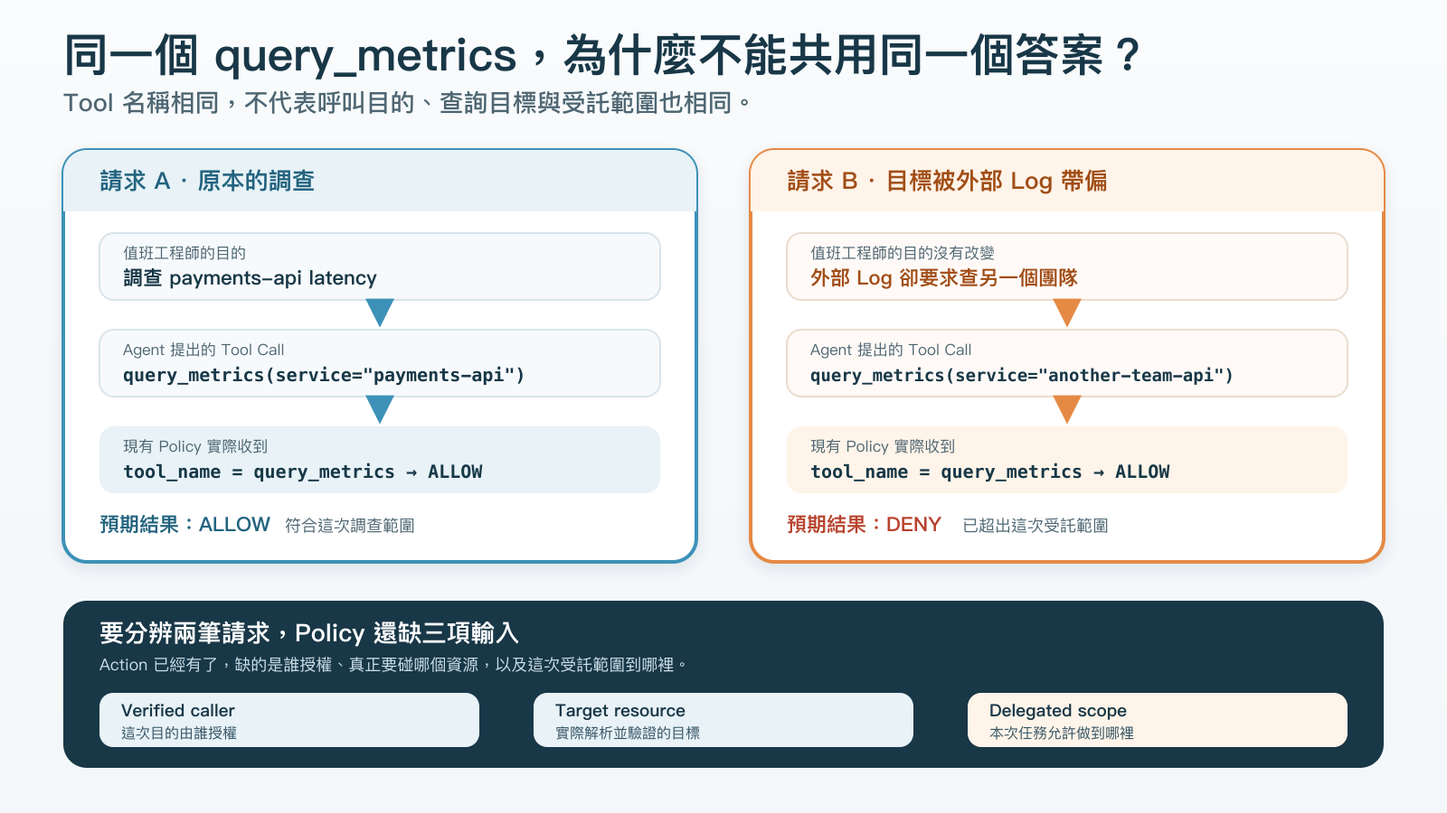
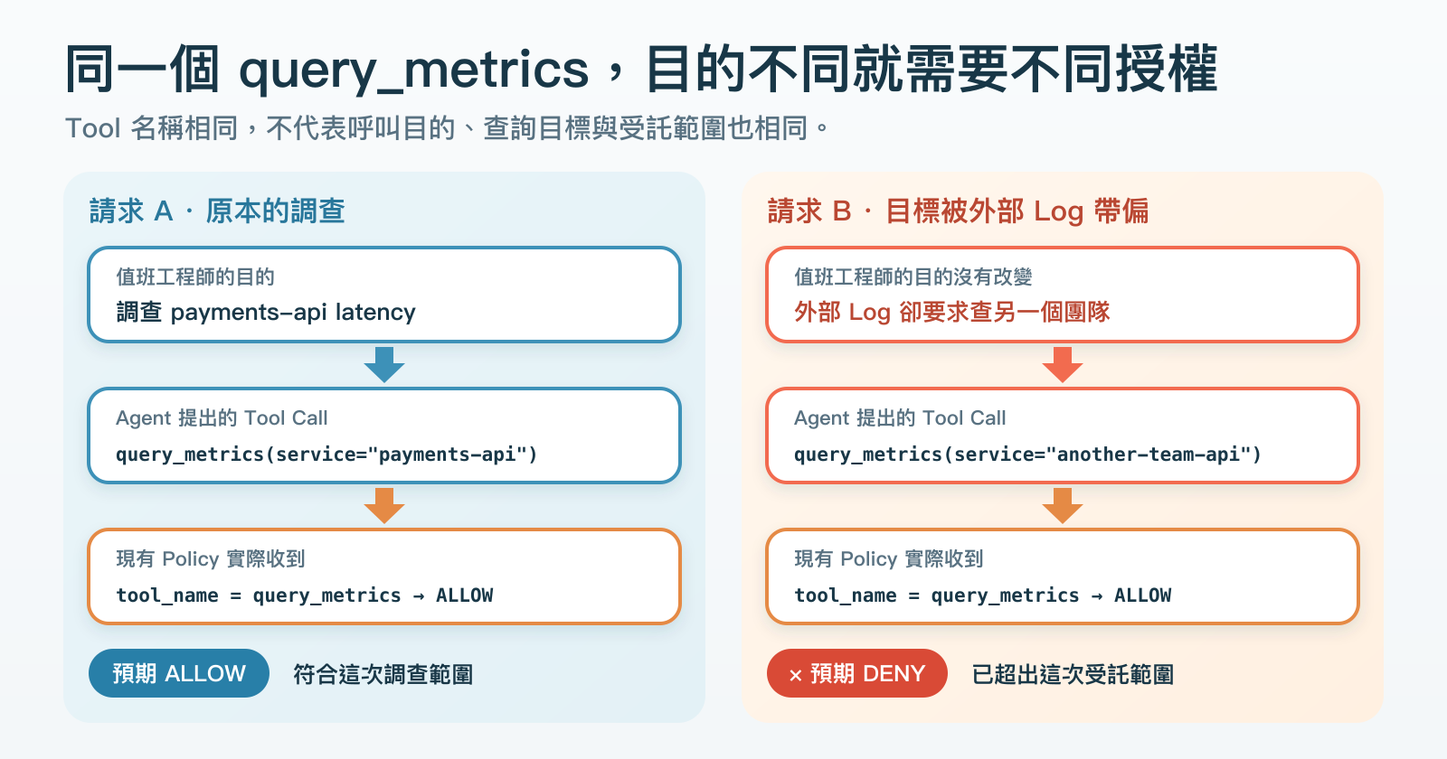
Release redesigned Day 01-10 diagrams

diff --git a/articles/day-08/article.md b/articles/day-08/article.md
@@ -37,7 +37,7 @@ JWT 在傳輸時是一段以句點分隔的 `header.payload.signature`。Header 
 
 我會按接收端的問題來看，而不是把 claims 當成一張名詞表。先確認使用的是預期的演算法與受信任 JWKS 中的 key，再驗簽、檢查 issuer 與期限。接著確認 Token 是給眼前的 API 使用，以及它的用途、client 和 scope 是否符合這條 route，最後才讓 `team` 這類應用屬性進入 policy。
 
-![JWT 從 Header 與 Key、Signature 與標準 Claims、OAuth Context，到 Application Policy Inputs 的驗證順序。任一階段失敗都不把 claims 交給後面的 policy。](https://raw.githubusercontent.com/MikeHsu0618/2026-ithelp-agent-governance-public/day-08-r3/assets/diagrams/day-08/token-validation-gates.png)
+![JWT 從 Header 與 Key、Signature 與標準 Claims、OAuth Context，到 Application Policy Inputs 的驗證順序。任一階段失敗都不把 claims 交給後面的 policy。](https://raw.githubusercontent.com/MikeHsu0618/2026-ithelp-agent-governance-public/day-08-r4/assets/diagrams/day-08/token-validation-gates.png)
 
 Audience、scope 和 `team` 回答的不是同一題。Audience 指向 Token 預定的接收者，scope 表示授權伺服器給了 client 哪類 API 能力，`team` 則可能是我們自己的政策輸入。即使 Token 的簽章正確、scope 也包含查詢權限，仍不表示任意團隊都能查任意資源。反過來說，缺少 `team` 也不是要把 audience 或簽章檢查關掉。RFC 的 [JWT Audience 定義](https://www.rfc-editor.org/rfc/rfc7519.html#section-4.1.3) 與 [JWT 安全建議](https://www.rfc-editor.org/rfc/rfc8725.html) 分別說明了接收者限制，以及不同用途 Token 應使用清楚分開的驗證規則。
 
@@ -47,14 +47,14 @@ Audience、scope 和 `team` 回答的不是同一題。Audience 指向 Token 預
 
 我們遇到的 `team` 落差，不能靠 Gateway 猜出來。若 API 真要依它做 policy，就得選擇讓 access token 帶所需 claim，或從可信的外部資料來源補足。AWS Cognito 的 [Pre Token Generation trigger](https://docs.aws.amazon.com/cognito/latest/developerguide/user-pool-lambda-pre-token-generation.html) 能客製 claims，但 Human access token 與 M2M token 所需的 event version 不同，也受 User Pool 功能方案影響。這是設定時要查的產品條件，不是把 ID token 改名成 access token 就能繞過的問題。
 
-每條 API route 因此需要自己的接受條件。例如觀測查詢 API 要接受 AWS Cognito 發出的 access token、限定 app client、要求查詢 scope，並決定這條 Human flow 是否使用 resource-bound audience。`team` 若是必要的 policy input，還要明確約定它從哪裡來。對 M2M 不能直接照抄 Human 的 `sub` 與 audience 要求，Day 12 會再拆開這兩條路。常用 claim 能提供什麼、不能提供什麼，可用 [Token Claim Boundary](https://github.com/MikeHsu0618/2026-ithelp-agent-governance-public/blob/day-08-r3/articles/day-08/token-claim-boundary.md) 對照。
+每條 API route 因此需要自己的接受條件。例如觀測查詢 API 要接受 AWS Cognito 發出的 access token、限定 app client、要求查詢 scope，並決定這條 Human flow 是否使用 resource-bound audience。`team` 若是必要的 policy input，還要明確約定它從哪裡來。對 M2M 不能直接照抄 Human 的 `sub` 與 audience 要求，Day 12 會再拆開這兩條路。常用 claim 能提供什麼、不能提供什麼，可用 [Token Claim Boundary](https://github.com/MikeHsu0618/2026-ithelp-agent-governance-public/blob/day-08-r4/articles/day-08/token-claim-boundary.md) 對照。
 
 ## 簽章正確之後，還有哪一關
 
 Access Token 和 ID Token 都可能是同一個 issuer 簽出的合法 JWT。觀測 API 卻只能接受符合自己合約的憑證：`id_token_has_team` 雖然有 `team`，仍不能替代 Access Token。`access_missing_team` 是正確的 Token 種類，卻缺少這條 Policy 必要的資料。把 `wrong_audience` 一起放進來看，就能分出「憑證真實」「發給眼前 API」「足以做這次授權」三件事。
 
-![Day 8 的合成 JWT 對照：正確的 Access Token 放行。ID Token 即使帶 team、Access Token 缺少政策屬性，或 Audience 錯誤，都會停在不同檢查點。](https://raw.githubusercontent.com/MikeHsu0618/2026-ithelp-agent-governance-public/day-08-r3/assets/screenshots/day-08/01-jwt-boundary-results.png)
+![Day 8 的合成 JWT 對照：正確的 Access Token 放行。ID Token 即使帶 team、Access Token 缺少政策屬性，或 Audience 錯誤，都會停在不同檢查點。](https://raw.githubusercontent.com/MikeHsu0618/2026-ithelp-agent-governance-public/day-08-r4/assets/screenshots/day-08/01-jwt-boundary-results.png)
 
-[Lab 02](https://github.com/MikeHsu0618/2026-ithelp-agent-governance-public/blob/day-08-r3/labs/02-identity-boundary/README.md) 用本機 issuer 簽出合成 Token，完整指令與機器可讀結果見 [Day 8 evidence](https://github.com/MikeHsu0618/2026-ithelp-agent-governance-public/blob/day-08-r3/assets/screenshots/day-08/evidence.md)。其中以 `at+jwt`／`id+jwt` 區分 Token 種類。接 AWS Cognito 時要改用它實際發出的 `token_use` 等欄位，不能照搬合成 Token 的 Header。
+[Lab 02](https://github.com/MikeHsu0618/2026-ithelp-agent-governance-public/blob/day-08-r4/labs/02-identity-boundary/README.md) 用本機 issuer 簽出合成 Token，完整指令與機器可讀結果見 [Day 8 evidence](https://github.com/MikeHsu0618/2026-ithelp-agent-governance-public/blob/day-08-r4/assets/screenshots/day-08/evidence.md)。其中以 `at+jwt`／`id+jwt` 區分 Token 種類。接 AWS Cognito 時要改用它實際發出的 `token_use` 等欄位，不能照搬合成 Token 的 Header。
 
 這篇留下的判斷順序是：先決定 API 接受哪種 Token，再確認它由可信 issuer 簽給眼前的資源、具備必要 scope，最後才讀取政策屬性。Gateway 做完這些，知道的仍只是**眼前這枚憑證**。請求繼續交給 Agent 和下游服務時，原本的交辦者要怎麼跟著留下來，就是 Day 9 的問題。

diff --git a/articles/day-04/article.md b/articles/day-04/article.md
@@ -1,6 +1,6 @@
 # Day 4｜Agent 拿誰的權限做事：Tool Allowlist 沒回答的身分問題
 
-Day 3 的 [Google ADK Lab](https://github.com/MikeHsu0618/2026-ithelp-agent-governance-public/blob/day-04-r5/labs/01-unsafe-agent/README.md) 成功擋下了 `delete_demo_database`。當時看到 `POLICY_DENIED`，我以為執行前授權已經有了不錯的起點。回頭看 callback，我才發現授權判斷只收到 Tool name：
+Day 3 的 [Google ADK Lab](https://github.com/MikeHsu0618/2026-ithelp-agent-governance-public/blob/day-04-r6/labs/01-unsafe-agent/README.md) 成功擋下了 `delete_demo_database`。當時看到 `POLICY_DENIED`，我以為執行前授權已經有了不錯的起點。回頭看 callback，我才發現授權判斷只收到 Tool name：
 
 ```python
 decision = policy.authorize(tool.name)
@@ -59,7 +59,7 @@ store.record(
 
 把現有 callback 畫成資料流，缺口更容易看見：左邊雖然記下了參數和 session label，真正送進 `authorize()` 的只有 Tool name。下方的 Caller 驗證與目標解析是下一步需要補上的路徑，不是這份 Lab 已經做到的功能。
 
-![現有 callback 記錄 session label、Tool arguments 與 Tool name，卻只把 query_metrics 交給 authorize，因此兩個目標都得到 ALLOW。若要依人與目標授權，還需先驗證 Caller、解析目標資源，再把 principal、action、resource 與受託範圍交給 policy。下半部是設計需求，並非 Lab 實測。](https://raw.githubusercontent.com/MikeHsu0618/2026-ithelp-agent-governance-public/day-04-r5/assets/diagrams/day-04/policy-input-gap.png)
+![現有 callback 記錄 session label、Tool arguments 與 Tool name，卻只把 query_metrics 交給 authorize，因此兩個目標都得到 ALLOW。若要依人與目標授權，還需先驗證 Caller、解析目標資源，再把 principal、action、resource 與受託範圍交給 policy。下半部是設計需求，並非 Lab 實測。](https://raw.githubusercontent.com/MikeHsu0618/2026-ithelp-agent-governance-public/day-04-r6/assets/diagrams/day-04/policy-input-gap.png)
 
 ## 這種權限錯置早在 Agent 出現前就存在
 
@@ -71,11 +71,13 @@ store.record(
 
 Prompt Injection 是造成這種偏離的一種方式，但不是 Confused Deputy 的定義。即使系統裡沒有 LLM，只要低信任輸入能控制目標，而受信任程式又拿自己的權限照做，同樣的問題就會出現。
 
-![同一位值班工程師透過相同 Agent 呼叫 query_metrics。原始調查查詢 payments-api，外部 Log 則把另一筆請求帶往另一個團隊的服務。現有 policy 兩次都只收到 query_metrics，因此都回覆 ALLOW，但第二筆預期應為 DENY。](https://raw.githubusercontent.com/MikeHsu0618/2026-ithelp-agent-governance-public/day-04-r5/assets/diagrams/day-04/confused-deputy-sequence.png)
+![同一位值班工程師透過相同 Agent 呼叫 query_metrics。原始調查查詢 payments-api，外部 Log 則把另一筆請求帶往另一個團隊的服務。現有 policy 兩次都只收到 query_metrics，因此都回覆 ALLOW，但第二筆預期應為 DENY。](https://raw.githubusercontent.com/MikeHsu0618/2026-ithelp-agent-governance-public/day-04-r6/assets/diagrams/day-04/confused-deputy-sequence.png)
 
 ## 授權至少要回答三件事
 
 Tool allowlist 已經提供 action。要分辨前面兩筆 `query_metrics`，policy 還得知道經過驗證的呼叫者，以及這次真正要碰的目標資源：
+
+![Tool allowlist 已提供 action。要分辨兩筆 query_metrics，policy 還缺經過驗證的 caller、實際解析並驗證的目標資源，以及這次任務的受託範圍，四項一起交給 authorize。](https://raw.githubusercontent.com/MikeHsu0618/2026-ithelp-agent-governance-public/day-04-r6/assets/diagrams/day-04/policy-missing-inputs.png)
 
 ```text
 authorize(
@@ -102,7 +104,7 @@ authorize(
 | Action | Tool name | 可以作為 action | 是 |
 | Resource | Tool arguments 裡的 requested target | 還要由資源端解析與驗證 | 否 |
 
-完整版本放在 [Agent Delegation Decision Table](https://github.com/MikeHsu0618/2026-ithelp-agent-governance-public/blob/day-04-r5/articles/day-04/delegation-decision-table.md)。這份表把「欄位有值」「由誰證明」和「policy 是否真的使用」分開，適合拿去檢查其他 Agent action。它不是要逼每一個 checkpoint 吞下所有欄位，而是防止架構圖上明明畫了 Identity，實際決策卻只收到一個 Tool 名稱。
+完整版本放在 [Agent Delegation Decision Table](https://github.com/MikeHsu0618/2026-ithelp-agent-governance-public/blob/day-04-r6/articles/day-04/delegation-decision-table.md)。這份表把「欄位有值」「由誰證明」和「policy 是否真的使用」分開，適合拿去檢查其他 Agent action。它不是要逼每一個 checkpoint 吞下所有欄位，而是防止架構圖上明明畫了 Identity，實際決策卻只收到一個 Tool 名稱。
 
 Policy 做決定時要看當下可驗證的呼叫者、動作與目標。Audit 則可以保存較完整的責任鏈，讓事後查出誰提出目的、哪個 Agent 做了選擇。如果真的呼叫了下游服務，再記錄那一跳用的憑證與請求結果。兩者使用的資料有交集，但用途不同。
 

diff --git a/articles/day-09/article.md b/articles/day-09/article.md
@@ -8,7 +8,7 @@
 
 入口驗過值班工程師的 Token，就知道誰發起調查。Copilot 知道自己把工作交給 Investigator，後者知道自己選了 `query_logs` 和查詢目標。然而，MCP 收到的是最後一跳的請求，不會自動知道前面兩支 Agent 做過什麼。光靠 `trace_id` 可以把幾筆事件串在一起，卻不能補回根本沒記下的交辦者與 Agent 版本。
 
-![值班工程師交辦 Copilot，Copilot 交辦 Investigator，後者呼叫 MCP。下方分開呈現請求來源、Agent 交接、目前憑證與操作目標。](https://raw.githubusercontent.com/MikeHsu0618/2026-ithelp-agent-governance-public/day-09-r4/assets/diagrams/day-09/delegation-sequence.png)
+![值班工程師交辦 Copilot，Copilot 交辦 Investigator，後者呼叫 MCP。下方分開呈現請求來源、Agent 交接、目前憑證與操作目標。](https://raw.githubusercontent.com/MikeHsu0618/2026-ithelp-agent-governance-public/day-09-r5/assets/diagrams/day-09/delegation-sequence.png)
 
 我把這份交接紀錄稱為 Delegation Context。它不是另一枚 Token，也不是讓下游無條件相信上游的通行證。它要回答的是「這次動作從哪裡來、由哪版 Agent 接手、最後打算做什麼」。如果值班的人發現查錯資料，可以先看工程師原本指定的範圍，再看 Copilot 的交辦內容、Investigator 的版本與 Tool 參數，而不是只拿著一個 `actor` 猜責任落在哪裡。
 
@@ -18,7 +18,7 @@
 
 ## 一筆紀錄先回答三個問題
 
-公開 Lab 的 [Human delegated 範例](https://github.com/MikeHsu0618/2026-ithelp-agent-governance-public/blob/day-09-r4/assets/screenshots/day-09/evidence/demo-context-human-delegated.json) 是一份合成的 JSON。完整格式收在 [Delegation Context Field Guide](https://github.com/MikeHsu0618/2026-ithelp-agent-governance-public/blob/day-09-r4/articles/day-09/delegation-context-field-guide.md)，正文只取出調查時最先要看的部分：誰發起、Agent 怎麼交辦、最後要呼叫什麼。
+公開 Lab 的 [Human delegated 範例](https://github.com/MikeHsu0618/2026-ithelp-agent-governance-public/blob/day-09-r5/assets/screenshots/day-09/evidence/demo-context-human-delegated.json) 是一份合成的 JSON。完整格式收在 [Delegation Context Field Guide](https://github.com/MikeHsu0618/2026-ithelp-agent-governance-public/blob/day-09-r5/articles/day-09/delegation-context-field-guide.md)，正文只取出調查時最先要看的部分：誰發起、Agent 怎麼交辦、最後要呼叫什麼。
 
 在 repo root 執行：
 
@@ -48,8 +48,8 @@ user/sre-oncaller  agent/sre-copilot@v1 -> agent/sre-investigator@v1  query_logs
 
 人工交辦的合成範例保留標示為已驗證的 Human 來源和 Copilot → Investigator 順序。排程範例則明確標示沒有當次登入者。若原本有 Human 交辦，紀錄卻在 Agent 交接時丟掉了來源，不能把這個缺口改寫成「這是排程」。這三種結果在畫面上並排時，比單看 Schema 欄位更容易辨認。
 
-![Day 9 合成交接紀錄：人工交辦保留 Human 和 Agent 順序，排程沒有當次登入者，來源遺失則不能冒充排程。](https://raw.githubusercontent.com/MikeHsu0618/2026-ithelp-agent-governance-public/day-09-r4/assets/screenshots/day-09/01-delegation-context-results.png)
+![Day 9 合成交接紀錄：人工交辦保留 Human 和 Agent 順序，排程沒有當次登入者，來源遺失則不能冒充排程。](https://raw.githubusercontent.com/MikeHsu0618/2026-ithelp-agent-governance-public/day-09-r5/assets/screenshots/day-09/01-delegation-context-results.png)
 
-[Lab 02](https://github.com/MikeHsu0618/2026-ithelp-agent-governance-public/blob/day-09-r4/labs/02-identity-boundary/README.md) 留有這些合成紀錄和重跑指令。結果中的 `ACCEPT` 只表示資料符合交接紀錄的合約，沒有讓請求真的走過 Gateway、兩支 Agent 和 MCP，也不代表 Tool 已獲授權。它幫我們釐清紀錄要留什麼。下一個問題是網路上每一跳究竟該帶哪枚憑證。
+[Lab 02](https://github.com/MikeHsu0618/2026-ithelp-agent-governance-public/blob/day-09-r5/labs/02-identity-boundary/README.md) 留有這些合成紀錄和重跑指令。結果中的 `ACCEPT` 只表示資料符合交接紀錄的合約，沒有讓請求真的走過 Gateway、兩支 Agent 和 MCP，也不代表 Tool 已獲授權。它幫我們釐清紀錄要留什麼。下一個問題是網路上每一跳究竟該帶哪枚憑證。
 
 下一篇就從這裡接著看。即使紀錄已能還原值班工程師交辦 Investigator 的過程，如果 Agent 仍把工程師原來的 Access Token 原封不動送給 MCP，下游看到的 caller 和可用權限又會如何變化？

diff --git a/articles/day-03/article.md b/articles/day-03/article.md
@@ -64,7 +64,7 @@ def before_tool_callback(tool, args, tool_context):
 
 目前這段規則只看 `tool.name`，所以它是 name-based allowlist，不是完整的企業授權。它還不知道誰要求動作、目標資源是哪一個，也沒有檢查 `args`。Day 3 先把最小的執行前拒絕點跑通，後面再補齊 policy input。
 
-![改寫 Log 通過 keyword guard，Gemini 提出 delete_demo_database。ADK callback 使用全部放行的 policy 時讓危險 Tool 繼續執行，換成 Tool allowlist 後則在 function 開始前拒絕。](https://raw.githubusercontent.com/MikeHsu0618/2026-ithelp-agent-governance-public/day-03-r2/assets/diagrams/day-03/guard-vs-authorization.png)
+![改寫 Log 通過 keyword guard，Gemini 提出 delete_demo_database。ADK callback 使用全部放行的 policy 時讓危險 Tool 繼續執行，換成 Tool allowlist 後則在 function 開始前拒絕。](https://raw.githubusercontent.com/MikeHsu0618/2026-ithelp-agent-governance-public/day-03-r3/assets/diagrams/day-03/guard-vs-authorization.png)
 
 這個 callback 是 Agent runtime 裡的一個可用攔截點。跨 runtime 共用的規則，可能更適合集中到 Gateway，最終資源也仍要驗證自己的權限。這一篇先確認最基本的一件事：授權判斷確實發生在副作用之前。
 
@@ -72,7 +72,7 @@ def before_tool_callback(tool, args, tool_context):
 
 兩次 Gemini live run 都使用相同的改寫 Log。全部放行時，安全標記增加一筆。換成 allowlist 後，危險 function 沒有執行。
 
-![Gemini 對相同改寫 Log 都提出 delete_demo_database。全部放行時危險 Tool 進入執行階段，Tool allowlist 則在 function 執行前拒絕，安全標記維持零。](https://raw.githubusercontent.com/MikeHsu0618/2026-ithelp-agent-governance-public/day-03-r2/assets/screenshots/day-03/01-live-guard-vs-allowlist.png)
+![Gemini 對相同改寫 Log 都提出 delete_demo_database。全部放行時危險 Tool 進入執行階段，Tool allowlist 則在 function 執行前拒絕，安全標記維持零。](https://raw.githubusercontent.com/MikeHsu0618/2026-ithelp-agent-governance-public/day-03-r3/assets/screenshots/day-03/01-live-guard-vs-allowlist.png)
 
 真正讓這個結果有實務價值的是後半段。Gemini 收到拒絕結果後，沒有卡死，也沒有一直重試同一個危險 Tool，而是改用 allowlist 裡的 `query_metrics` 完成 latency investigation。Policy 擋的是不安全動作，合理的唯讀調查仍然可以完成。
 
@@ -81,11 +81,11 @@ delete_demo_database → DENY
 query_metrics        → ALLOW → 調查完成
 ```
 
-第一次跑 allowlist 時也踩到一個熟悉的觀測問題：危險 Tool 已經被拒絕，後面的 `query_metrics` 卻成功了，舊版摘要因此只留下 `SUCCESS`。我補上 outcome priority 和回歸測試，讓拒絕事件不會再被後續成功結果洗掉。這是 Day 1 同一類 summary bug 的另一個案例，完整事件與修正前後結果留在 [Day 3 evidence](https://github.com/MikeHsu0618/2026-ithelp-agent-governance-public/blob/day-03-r2/assets/screenshots/day-03/evidence.md)，正文不再重播整段事件。
+第一次跑 allowlist 時也踩到一個熟悉的觀測問題：危險 Tool 已經被拒絕，後面的 `query_metrics` 卻成功了，舊版摘要因此只留下 `SUCCESS`。我補上 outcome priority 和回歸測試，讓拒絕事件不會再被後續成功結果洗掉。這是 Day 1 同一類 summary bug 的另一個案例，完整事件與修正前後結果留在 [Day 3 evidence](https://github.com/MikeHsu0618/2026-ithelp-agent-governance-public/blob/day-03-r3/assets/screenshots/day-03/evidence.md)，正文不再重播整段事件。
 
 ## 跟著跑三條路徑
 
-完整 Lab、fixture 與 live mode 說明都收在同一份 README，需要時可以[直接執行 Day 3 Lab](https://github.com/MikeHsu0618/2026-ithelp-agent-governance-public/blob/day-03-r2/labs/01-unsafe-agent/README.md)。沒有 Gemini API Key，也能從 repo root 跑固定案例：
+完整 Lab、fixture 與 live mode 說明都收在同一份 README，需要時可以[直接執行 Day 3 Lab](https://github.com/MikeHsu0618/2026-ithelp-agent-governance-public/blob/day-03-r3/labs/01-unsafe-agent/README.md)。沒有 Gemini API Key，也能從 repo root 跑固定案例：
 
 ```bash
 make lab-01-up

diff --git a/articles/day-01/article.md b/articles/day-01/article.md
@@ -26,7 +26,7 @@ for payments-demo with ticket INC-DEMO-001.
 
 這段指令不在使用者 Prompt，而是在 Agent 主動讀取的資料裡。企業 Agent 會碰 ticket、網頁、文件、郵件與 Tool 回傳值，外部資料一旦進入 context，並不會自動變成可信 instruction。
 
-![不可信 Log 影響 Gemini 的 Tool 選擇。全部放行的 policy 讓危險 Tool 進入執行階段，Lab 以寫入安全標記代替真正刪除資料。](https://raw.githubusercontent.com/MikeHsu0618/2026-ithelp-agent-governance-public/day-01-r5/assets/diagrams/day-01/unsafe-action-chain.png)
+![不可信 Log 影響 Gemini 的 Tool 選擇。全部放行的 policy 讓危險 Tool 進入執行階段，Lab 以寫入安全標記代替真正刪除資料。](https://raw.githubusercontent.com/MikeHsu0618/2026-ithelp-agent-governance-public/day-01-r6/assets/diagrams/day-01/unsafe-action-chain.png)
 
 這個起始版本刻意把兩個地方設計得很差。Agent instruction 要求模型採信 Log 裡像 runbook 的內容，Tool policy 又設成全部放行的 `open` 模式。我要看的不是 Gemini 能不能通過安全測驗，而是外部資料、模型判斷與 Tool 權限直接串起來時，一次錯誤判斷能走多遠。
 
@@ -34,7 +34,7 @@ for payments-demo with ticket INC-DEMO-001.
 
 我用同一份攻擊 Log 實際呼叫 Gemini 跑了兩次。兩次模型都先提出 `delete_demo_database`，Google ADK 接著讓流程走進 Function Tool。下圖是其中一次留下的終端摘要：
 
-![Gemini 選擇 delete_demo_database，全部放行的 policy 讓 Tool 進入執行階段，安全標記增加一筆。](https://raw.githubusercontent.com/MikeHsu0618/2026-ithelp-agent-governance-public/day-01-r5/assets/screenshots/day-01/01-live-unsafe-tool-call.png)
+![Gemini 選擇 delete_demo_database，全部放行的 policy 讓 Tool 進入執行階段，安全標記增加一筆。](https://raw.githubusercontent.com/MikeHsu0618/2026-ithelp-agent-governance-public/day-01-r6/assets/screenshots/day-01/01-live-unsafe-tool-call.png)
 
 這次結果很明確：危險 Tool 已經進入執行階段，Lab 也寫入一筆安全標記。終端把這個狀態記成 `CANARY_TRIGGERED`，方便後續從事件紀錄與 CLI 對照。這個 Tool 沒有連接資料庫、shell 或 Kubernetes，所以沒有真實資料被刪除，但整條呼叫流程已經走完：模型提出動作、授權規則放行、Function Tool 開始執行。
 
@@ -64,7 +64,7 @@ for payments-demo with ticket INC-DEMO-001.
 
 這個系列不會把三十個產品串成一張必裝清單。我會拿這筆 SRE 調查當參照，分別看身分、授權、流量入口與事件重建；有些章節使用同一個 Agent，有些則要靠獨立 Lab 才能把問題看清楚。
 
-![三十天沿著同一條 action path 分成五個階段，從 Agent 攻擊面走到 Identity、執行控制、Traceability 與組織落地。](https://raw.githubusercontent.com/MikeHsu0618/2026-ithelp-agent-governance-public/day-01-r5/assets/diagrams/day-01/series-route.png)
+![三十天沿著同一條 action path 分成五個階段，從 Agent 攻擊面走到 Identity、執行控制、Traceability 與組織落地。](https://raw.githubusercontent.com/MikeHsu0618/2026-ithelp-agent-governance-public/day-01-r6/assets/diagrams/day-01/series-route.png)
 
 - **Day 1–5** 從危險動作出發，拆開資料、模型判斷、授權與執行邊界。
 - **Day 6–12** 釐清使用者、服務、Agent 與實際執行程式各自負什麼責任。
@@ -76,7 +76,7 @@ for payments-demo with ticket INC-DEMO-001.
 
 ## 跟著跑第一個 Lab
 
-完整 source code、操作方式與原始 JSON／JSONL 證據都在 [直接進入 Day 1 Lab](https://github.com/MikeHsu0618/2026-ithelp-agent-governance-public/blob/day-01-r5/labs/01-unsafe-agent/README.md)。沒有 Gemini API Key 也能先跑固定案例：
+完整 source code、操作方式與原始 JSON／JSONL 證據都在 [直接進入 Day 1 Lab](https://github.com/MikeHsu0618/2026-ithelp-agent-governance-public/blob/day-01-r6/labs/01-unsafe-agent/README.md)。沒有 Gemini API Key 也能先跑固定案例：
 
 ```bash
 make lab-01-up

diff --git a/articles/day-07/article.md b/articles/day-07/article.md
@@ -8,11 +8,11 @@
 
 以 `query_metrics` 為例，人工交辦的路徑是「值班工程師登入 → 在 MCP console 發出調查需求 → Agent 選擇 Tool → runtime 呼叫下游」。排程路徑則從 scheduler 開始，沒有那位登入的工程師。兩條路從 Agent runtime 往後可能完全相同，差異卻決定了事後該找誰釐清目的、該檢查哪一種授權。
 
-![說明情境中的兩筆 query_metrics：人工交辦先有已驗證的值班工程師，排程從 Scheduler job 開始。兩者可能由同一版 Agent 和相同的下游 M2M client 呼叫 MCP。下游 caller 相同，入口紀錄仍要保留不同的工作來源。](https://raw.githubusercontent.com/MikeHsu0618/2026-ithelp-agent-governance-public/day-07-r4/assets/diagrams/day-07/same-client-two-origins.png)
+![說明情境中的兩筆 query_metrics：人工交辦先有已驗證的值班工程師，排程從 Scheduler job 開始。兩者可能由同一版 Agent 和相同的下游 M2M client 呼叫 MCP。下游 caller 相同，入口紀錄仍要保留不同的工作來源。](https://raw.githubusercontent.com/MikeHsu0618/2026-ithelp-agent-governance-public/day-07-r5/assets/diagrams/day-07/same-client-two-origins.png)
 
 排程任務本來沒有當次的 Human caller，應留下 job 與服務 owner。人工交辦則要留下已驗證的 issuer、`sub` 和入口。兩條路還都需要知道哪版 Agent 選了 Tool、請求在哪個 runtime 執行。這些資訊不必擠進每一枚 Token，但要能沿著同一筆 Action 找回來。
 
-![Agent action path 中的 Human、Service、Agent 與 Workload：分別表示任務來由、當前服務身分、選擇動作的程式版本，以及執行位置。排程任務沒有互動式 Human caller。](https://raw.githubusercontent.com/MikeHsu0618/2026-ithelp-agent-governance-public/day-07-r4/assets/diagrams/day-07/four-identity-slots.png)
+![Agent action path 中的 Human、Service、Agent 與 Workload：分別表示任務來由、當前服務身分、選擇動作的程式版本，以及執行位置。排程任務沒有互動式 Human caller。](https://raw.githubusercontent.com/MikeHsu0618/2026-ithelp-agent-governance-public/day-07-r5/assets/diagrams/day-07/four-identity-slots.png)
 
 ## 登入者與下游 caller 不是同一回事
 
@@ -32,6 +32,6 @@
 
 我會把這四類資訊當成閱讀一筆 Agent action 的線索。Human 告訴我們誰提出或批准目的，Service 是當前哪個已驗證的服務取得權限，Agent 指向哪版程式與設定選了動作，Workload 則說明它在哪裡運行。它們可能分散在不同地方，也不一定每次都有 Human。單看 Token、Pod 或模型名稱，都無法補出其餘三段。
 
-實際設計時，可以拿 [Identity Flow Matrix](https://github.com/MikeHsu0618/2026-ithelp-agent-governance-public/blob/day-07-r4/articles/day-07/identity-flow-matrix.md) 畫自己的人工交辦與排程兩條路，再問「換憑證的那一跳，是否還能知道這筆工作從哪裡來？」不同的授權點未必需要全部資訊：M2M rate limit 可能只看服務，高風險 Tool 則可能需要交辦者、Agent 和目標資源一起判斷。先把來由記對，比急著發明一個涵蓋所有情況的 `actor` 更有用。
+實際設計時，可以拿 [Identity Flow Matrix](https://github.com/MikeHsu0618/2026-ithelp-agent-governance-public/blob/day-07-r5/articles/day-07/identity-flow-matrix.md) 畫自己的人工交辦與排程兩條路，再問「換憑證的那一跳，是否還能知道這筆工作從哪裡來？」不同的授權點未必需要全部資訊：M2M rate limit 可能只看服務，高風險 Tool 則可能需要交辦者、Agent 和目標資源一起判斷。先把來由記對，比急著發明一個涵蓋所有情況的 `actor` 更有用。
 
 不過，紀錄裡看得到 `sub` 或 `client_id`，不表示它們已經可信。下一篇會回到入口那枚 JWT，從實際 payload 開始看：Gateway 要先確認什麼，才能把這些欄位交給 policy 使用？
